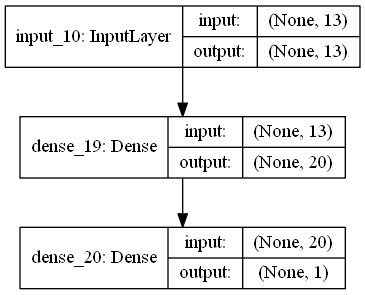
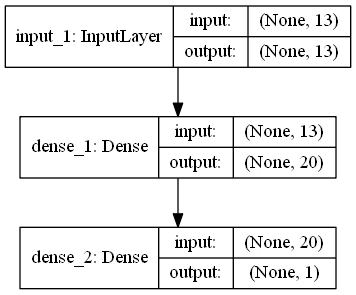
tried splitting layer training. stuck.

diff --git a/LinReg.py b/LinReg.py
@@ -83,6 +83,7 @@ def functional_model_skipconnection():
     model = Model(inputs=inputs, outputs=prediction)
     model.compile(loss='mean_squared_error', optimizer='adam')
     plot_model(model, to_file='model_plot_skipconnection.png', show_shapes=True, show_layer_names=True)
+    print(model.summary())
     return model
 
 # seed = 7
@@ -115,8 +116,23 @@ def functional_model_skipconnection():
 # results = cross_val_score(pipeline, X, Y, cv=kfold)
 # print("Standardized Functional skip connection: %.2f (%.2f) MSE" % (results.mean(), results.std()))
 
+skip_model = functional_model()
+skip_model.fit(X_train, Y_train, epochs=1000, verbose=0)
+y_pred = skip_model.predict(X_test)
+mse = sklearn.metrics.mean_squared_error(Y_test, Y_pred)
+print('mse for functional model:', mse)
+print('weights for functional model:', skip_model.layers[2].get_weights())
+
+layers = [l for l in skip_model.layers]
+z = merge([layers[0].output, layers[1].output], mode='concat')
+prediction = layers[2].input(z)
+model = Model(inputs=layers[0], outputs=prediction)
+
+
+
 skip_model = functional_model_skipconnection()
-skip_model.fit(X_train, Y_train, epochs=1000)
+skip_model.fit(X_train, Y_train, epochs=1000, verbose=0)
 y_pred = skip_model.predict(X_test)
 mse = sklearn.metrics.mean_squared_error(Y_test, Y_pred)
 print('mse for skip model:', mse)
+
